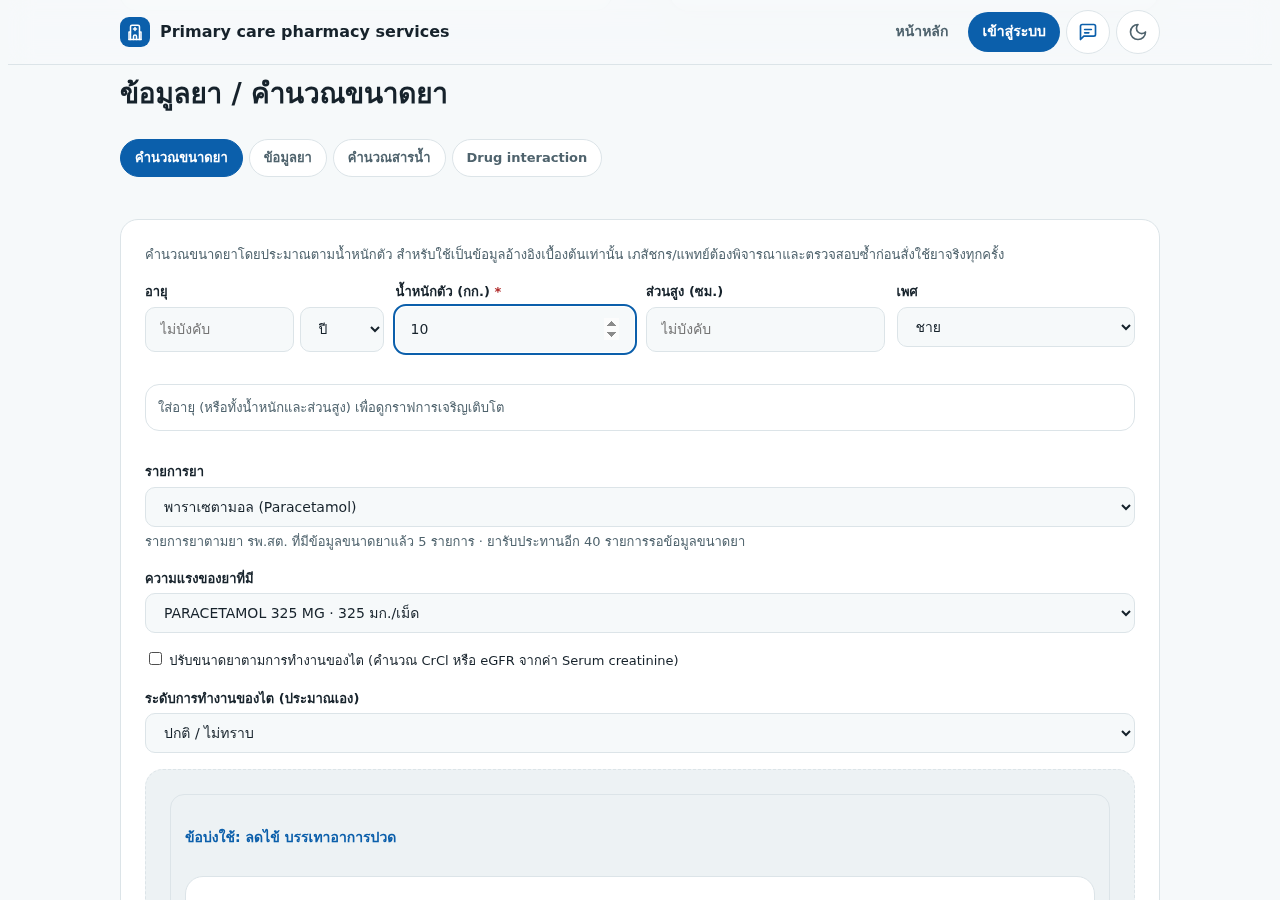
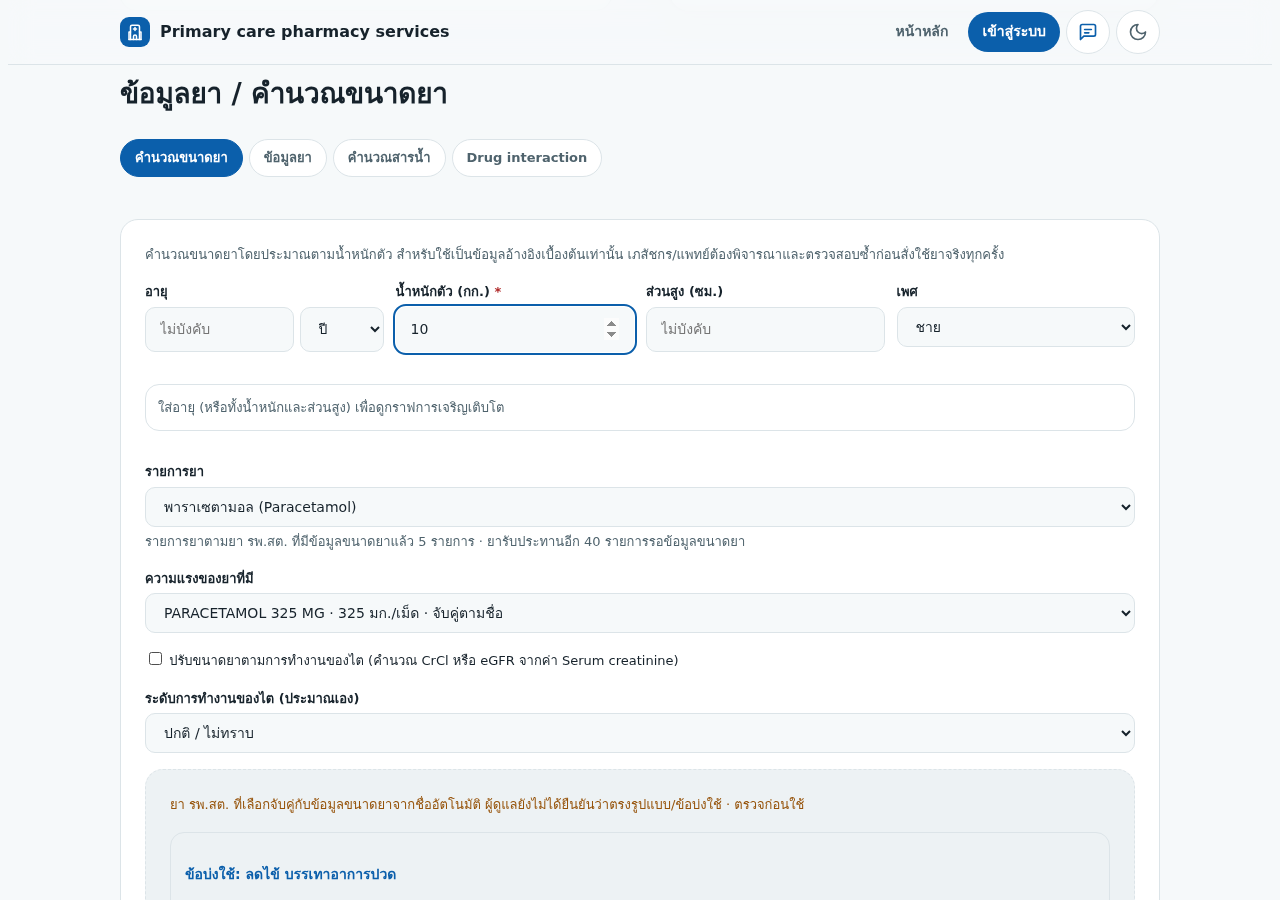
Audit: เกณฑ์ UI-11/UI-18/CG-13/AI-06 ตามผลที่คาดหวัง + ผลทดสอบหลังแก้ F-14–F-21
Claude-Session: https://claude.ai/code/session_01P4Czn88TBkXCxUEnBGhxev

Changed region(s): [[0.125, 0.8711, 0.625, 0.9333], [0.125, 0.9644, 0.3125, 0.9956], [0.3438, 0.6533, 0.375, 0.6844]]

diff --git a/audit/dose/db_audit.py b/audit/dose/db_audit.py
@@ -126,7 +126,7 @@ i, res, note, st = pipeline(L1, None, fda_status=500, rx_status=500)
 T("AI-05", "openFDA/RxNorm ล่ม (500)", "Medium", "ai_dose_step", "rx=500 fda=500", "status=error + ข้อความ", "", "", f"{st} · {note[:60]}", "PASS" if st == "error" else "FAIL")
 i, res, note, st = pipeline(L1, {"indications": [{"name": "ติดเชื้อ", "per": "day", "min": 25, "max": 25, "times": 2, "quote": "25 mg/kg/day in divided doses every 12 hours"}]}, eff="19990101")
 T("AI-06", "แหล่งข้อมูลเก่า (ฉลากฉบับ 1999)", "Medium", "ai_dose_step/dose_ref", "effective_time=19990101", "ติดธง/เตือนว่าฉลากเก่า", "ข้อกำหนด AI pipeline: outdated source",
-  "เก็บวันที่ไว้ในที่มา แต่ไม่ตรวจ/ไม่เตือน", f"label.effective={res.get('label', {}).get('effective')} · ai {len(res.get('ai') or [])} ข้อ · ไม่มีธงเตือน", "FAIL" if res.get("ai") else "PASS")
+  "เก็บวันที่ไว้ในที่มา แต่ไม่ตรวจ/ไม่เตือน", f"label.effective={res.get('label', {}).get('effective')} · label_old={res.get('label_old')} · note={note[:60]}", "PASS" if res.get("label_old") else "FAIL")
 fq = val(f"select url from net.http_request_queue where id=(select fda_req from ai_dose_drafts where id={i})")
 T("AI-07", "ค้นฉลาก openFDA กรองช่องทางให้ยา/รูปแบบ", "High", "ai_dose_fda (50) limit 1", "URL คำขอ", "กรอง route=ORAL หรือเลือกจากหลายฉลาก", "50_ai_dose.sql",
   "limit=1 ไม่กรอง route → อาจได้ฉลากยาฉีด/ยาภายนอก", fq[:150], "FAIL" if "route" not in fq.lower() else "PASS")
